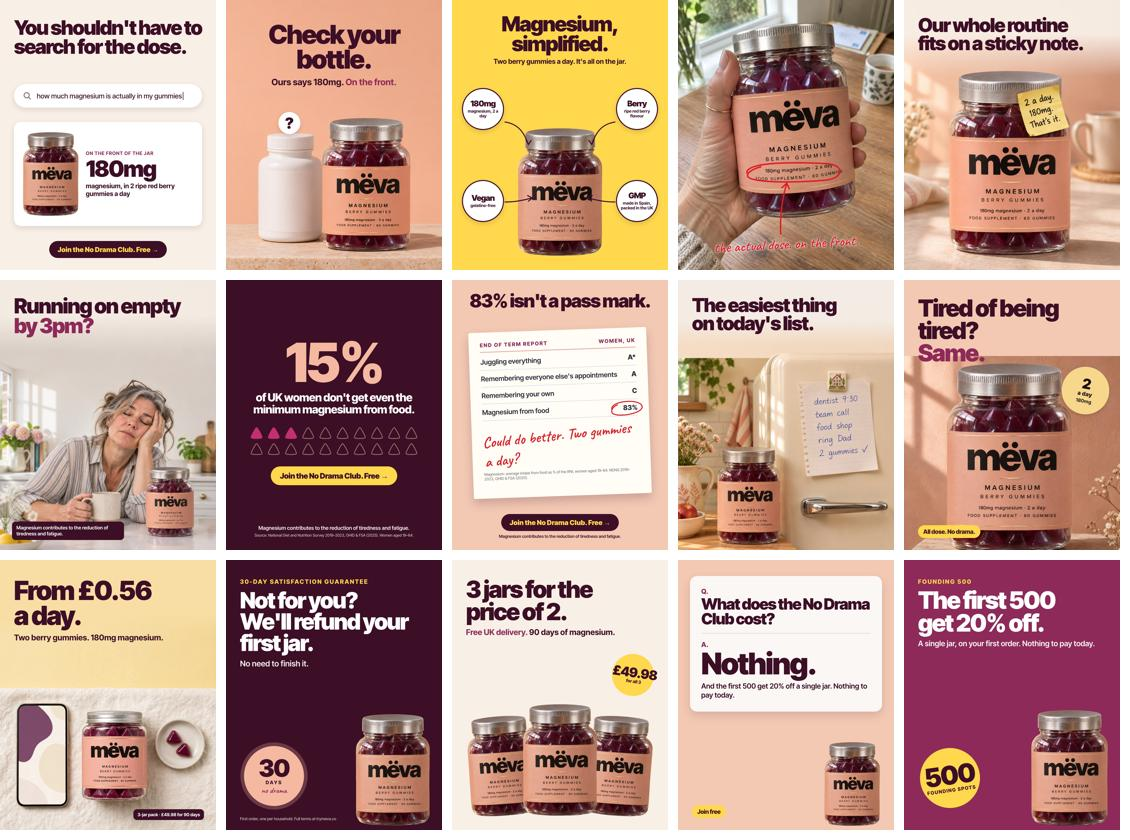
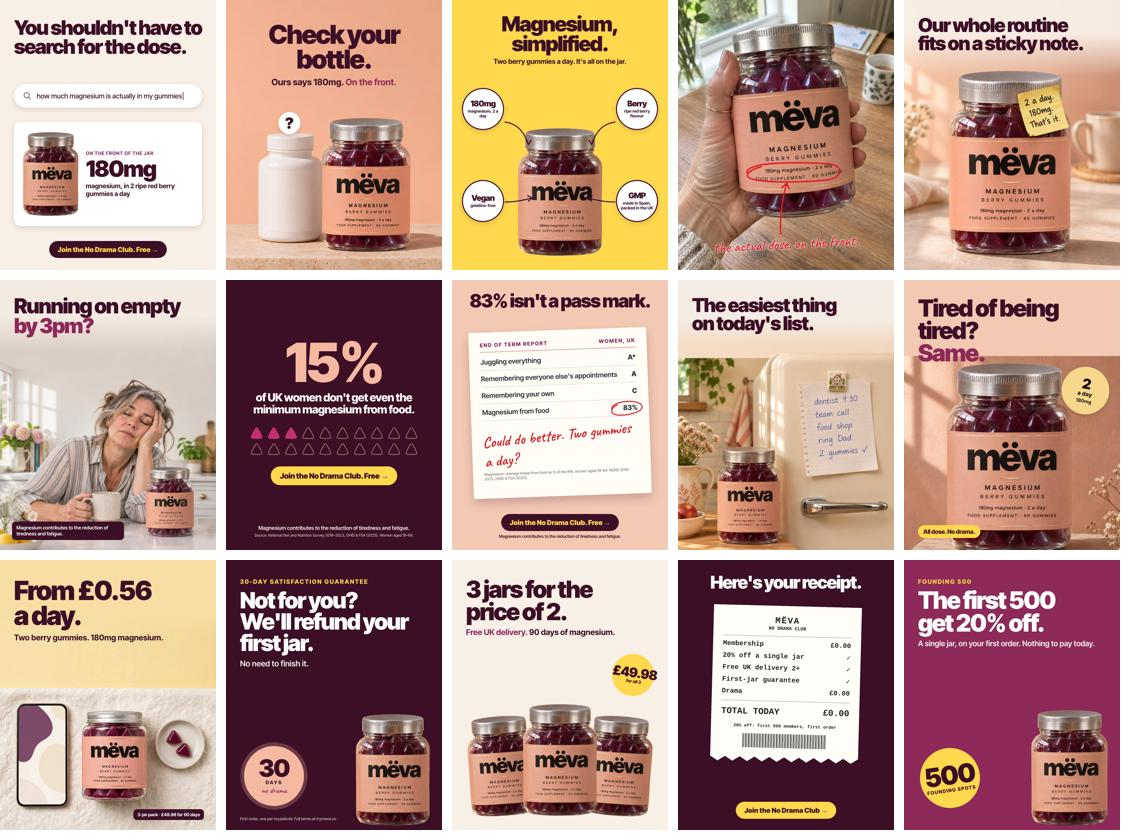
Mëva ads: C4 receipt final
Claude-Session: https://claude.ai/code/session_01WXdKv1YfkNwKWVtsSuXmEc

Changed region(s): [[0.5885, 0.65, 0.8053, 0.9905]]

diff --git a/meva/ads/campaign-r1-spec.md b/meva/ads/campaign-r1-spec.md
@@ -24,7 +24,7 @@
 - Images: feed JPGs. Their public URLs are in `2026-11-13/_image-urls.json`.
 - Link: `https://trymeva.co/products/meva-magnesium-gummies`
 - URL parameters (url_tags on every ad): `utm_source=meta&utm_medium=paid_social&utm_campaign={{campaign.name}}&utm_term={{adset.name}}&utm_content={{ad.name}}&placement={{placement}}`
-- Ad names: `A1_search-dose`, `A2_check-bottle`, `A3_simplified`, `A4_circled-dose`, `A5_sticky-note`, `B1_3pm-empty`, `B2_15pct`, `B3_report-card`, `B4_todo-list`, `B5_tired-same`, `C1_056-a-day`, `C2_guarantee`, `C3_3for2`, `C4_faq-free`, `C5_first-500`
+- Ad names: `A1_search-dose`, `A2_check-bottle`, `A3_simplified`, `A4_circled-dose`, `A5_sticky-note`, `B1_3pm-empty`, `B2_15pct`, `B3_report-card`, `B4_todo-list`, `B5_tired-same`, `C1_056-a-day`, `C2_guarantee`, `C3_3for2`, `C4_receipt`, `C5_first-500`
 - Headline: "Join free: 20% off your first jar"
 - Description: "Nothing to pay today"
 - CTA: SIGN_UP
